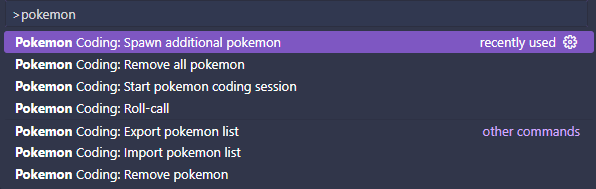
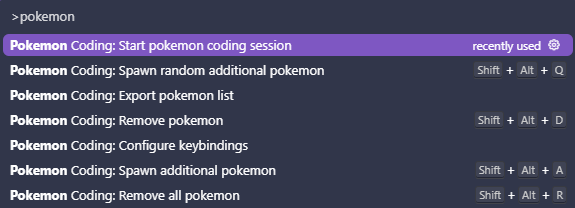
chore: update readme with new images

diff --git a/README.md b/README.md
@@ -70,6 +70,22 @@ Run the "Start Pokemon coding session" command (`vscode-pokemon.start`) to see a
 
 Enjoy interacting with your favourite Pokémon!
 
+## Keyboard Shortcuts
+
+VS Code Pokémon comes with default keyboard shortcuts to make managing your Pokémon quick and easy:
+
+![Keybindings](https://github.com/jakobhoeg/vscode-pokemon/raw/main/keybindings.png)
+
+### Configuring Keyboard Shortcuts
+
+You can customize these shortcuts to match your preferences:
+
+1. Open the command palette (`Ctrl+Shift+P` on Windows/Linux or `Cmd(⌘)+Shift+P` on MacOS)
+2. Run the **`Pokemon Coding: Configure keybindings`** command
+3. Select the command you want to customize
+4. VS Code will open the Keyboard Shortcuts editor filtered to that command
+5. Click the pencil icon next to the command and press your desired key combination
+
 ## Changing settings
 
 Open the setting panel with Ctrl+, on Windows/Linux or Cmd(⌘)+, on MacOS. In the search bar, enter “vscode-pokemon" to see all available options.
